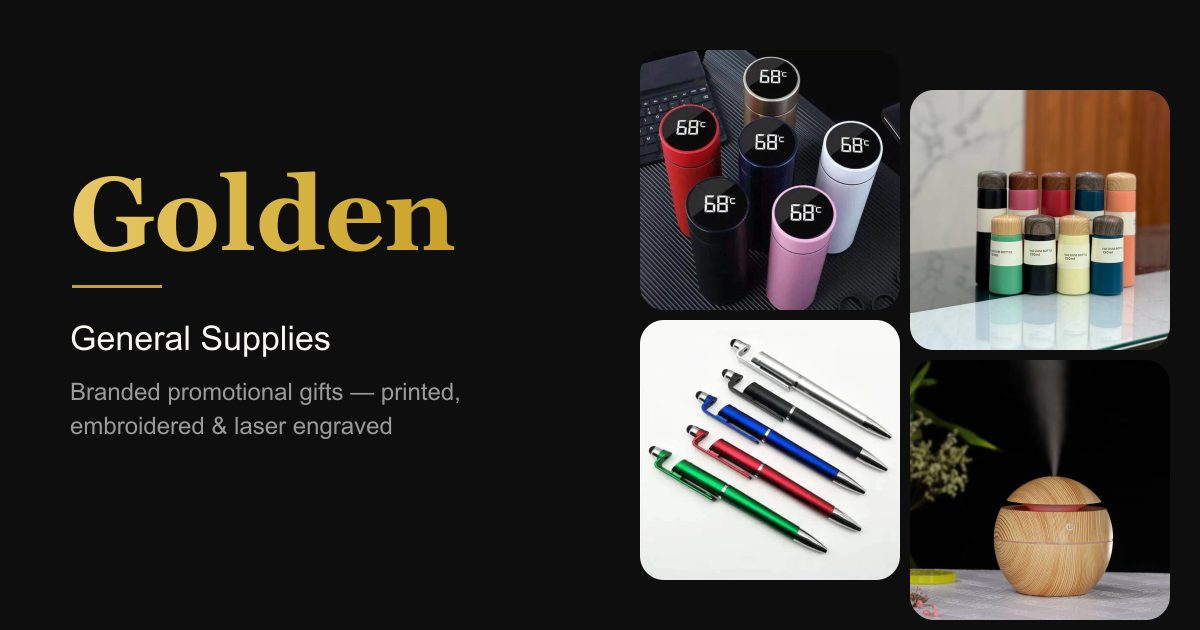
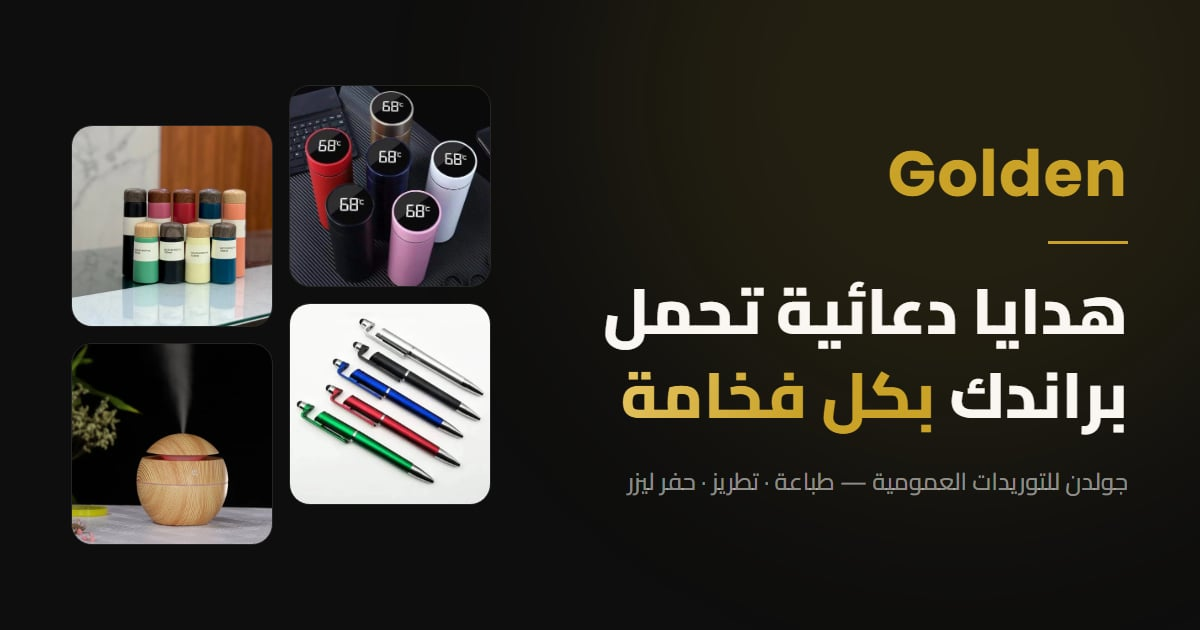
Add About section with counters, set production URL, refresh OG image
- New About section after the hero with animated stat counters
- Re-alternate section backgrounds to keep dark/light rhythm
- Point canonical/og/twitter URLs to golden-portfolio-six.vercel.app
- Regenerate og-image.jpg with logo and hero headline

diff --git a/src/components/Contact.jsx b/src/components/Contact.jsx
@@ -17,9 +17,9 @@ export default function Contact() {
   ]
 
   return (
-    <section id="contact" className="bg-charcoal py-24 md:py-32">
+    <section id="contact" className="bg-ivory py-24 md:py-32">
       <div className="mx-auto max-w-7xl px-5 sm:px-8">
-        <SectionHeading dark eyebrow={c.eyebrow} title={c.title} subtitle={c.subtitle} />
+        <SectionHeading eyebrow={c.eyebrow} title={c.title} subtitle={c.subtitle} />
 
         <div className="mt-16 grid gap-6 lg:grid-cols-5 lg:gap-8">
           <Reveal className="flex flex-col gap-4 lg:col-span-2">
@@ -30,7 +30,7 @@ export default function Contact() {
                 href={href}
                 {...(external && { target: '_blank', rel: 'noopener noreferrer' })}
                 className={`group flex items-center gap-5 rounded-2xl p-5 transition-colors duration-300 ${
-                  primary ? 'btn-gold' : 'border border-ivory/10 bg-ivory/[0.03] text-ivory hover:border-gold/50'
+                  primary ? 'btn-gold shadow-soft' : 'border border-charcoal/5 bg-white text-charcoal shadow-soft hover:border-gold/50'
                 }`}
               >
                 <span
@@ -41,7 +41,7 @@ export default function Contact() {
                   <Icon strokeWidth={1.5} className="size-5" />
                 </span>
                 <span className="min-w-0 flex-1">
-                  <span className={`block text-sm ${primary ? 'font-semibold' : 'text-ivory/60'}`}>{label}</span>
+                  <span className={`block text-sm ${primary ? 'font-semibold' : 'text-muted'}`}>{label}</span>
                   <span dir="ltr" className="mt-0.5 block truncate font-poppins text-base font-medium">
                     {value}
                   </span>
@@ -50,21 +50,21 @@ export default function Contact() {
               </motion.a>
             ))}
 
-            <motion.div variants={item} className="flex items-start gap-5 rounded-2xl border border-ivory/10 bg-ivory/[0.03] p-5 text-ivory">
+            <motion.div variants={item} className="flex items-start gap-5 rounded-2xl border border-charcoal/5 bg-white p-5 text-charcoal shadow-soft">
               <span className="flex size-12 shrink-0 items-center justify-center rounded-full border border-gold/30 text-gold">
                 <MapPin strokeWidth={1.5} className="size-5" />
               </span>
               <span>
-                <span className="block text-sm text-ivory/60">{c.address}</span>
+                <span className="block text-sm text-muted">{c.address}</span>
                 <span className="mt-0.5 block text-base leading-relaxed font-normal">{company.address[lang]}</span>
               </span>
             </motion.div>
 
-            <SocialLinks className="mt-2" />
+            <SocialLinks light className="mt-2" />
           </Reveal>
 
           <Reveal className="lg:col-span-3">
-            <motion.div variants={item} className="h-80 overflow-hidden rounded-2xl ring-1 ring-ivory/10 sm:h-96 lg:h-full lg:min-h-[28rem]">
+            <motion.div variants={item} className="h-80 overflow-hidden rounded-2xl shadow-soft ring-1 ring-charcoal/10 sm:h-96 lg:h-full lg:min-h-[28rem]">
               <iframe
                 title={c.mapTitle}
                 src={`https://www.google.com/maps?q=${encodeURIComponent(company.mapQuery)}&hl=${lang}&z=16&output=embed`}

diff --git a/src/components/Process.jsx b/src/components/Process.jsx
@@ -15,20 +15,20 @@ export default function Process() {
   const drawn = reduce ? 1 : progress
 
   return (
-    <section id="process" className="bg-ivory py-24 md:py-32">
+    <section id="process" className="bg-charcoal py-24 md:py-32">
       <div className="mx-auto max-w-7xl px-5 sm:px-8">
-        <SectionHeading eyebrow={t.process.eyebrow} title={t.process.title} />
+        <SectionHeading dark eyebrow={t.process.eyebrow} title={t.process.title} />
 
         <div ref={ref} className="relative mt-16 md:mt-20">
           {/* الخط الأفقي — كمبيوتر */}
-          <div className="absolute inset-x-[10%] top-8 hidden h-px bg-charcoal/10 md:block">
+          <div className="absolute inset-x-[10%] top-8 hidden h-px bg-ivory/10 md:block">
             <motion.div
               className="h-full w-full bg-gradient-to-r from-gold-light to-gold"
               style={{ scaleX: drawn, transformOrigin: isRTL ? 'right' : 'left' }}
             />
           </div>
           {/* الخط الرأسي — موبايل */}
-          <div className="absolute start-8 top-8 bottom-8 w-px bg-charcoal/10 md:hidden">
+          <div className="absolute start-8 top-8 bottom-8 w-px bg-ivory/10 md:hidden">
             <motion.div className="h-full w-full bg-gradient-to-b from-gold-light to-gold" style={{ scaleY: drawn, transformOrigin: 'top' }} />
           </div>
 
@@ -37,15 +37,15 @@ export default function Process() {
               const Icon = icons[i]
               return (
                 <motion.li key={i} variants={item} className="flex items-start gap-6 md:flex-col md:items-center md:gap-0 md:text-center">
-                  <span className="relative flex size-16 shrink-0 items-center justify-center rounded-full border border-gold/40 bg-ivory text-gold shadow-soft">
+                  <span className="relative flex size-16 shrink-0 items-center justify-center rounded-full border border-gold/40 bg-charcoal text-gold shadow-soft-dark">
                     <Icon strokeWidth={1.25} className="size-6" />
-                    <span className="absolute -top-1 -end-1 flex size-6 items-center justify-center rounded-full bg-charcoal font-poppins text-[0.7rem] font-semibold text-gold-light">
+                    <span className="absolute -top-1 -end-1 flex size-6 items-center justify-center rounded-full bg-gold font-poppins text-[0.7rem] font-semibold text-charcoal">
                       {i + 1}
                     </span>
                   </span>
                   <div className="pt-2 md:pt-7">
-                    <h3 className="text-xl font-bold text-charcoal">{s.title}</h3>
-                    <p className="mt-2 text-[0.95rem] leading-relaxed text-muted md:mx-auto md:max-w-[13rem]">{s.text}</p>
+                    <h3 className="text-xl font-bold text-ivory">{s.title}</h3>
+                    <p className="mt-2 text-[0.95rem] leading-relaxed text-ivory/60 md:mx-auto md:max-w-[13rem]">{s.text}</p>
                   </div>
                 </motion.li>
               )

diff --git a/src/components/About.jsx b/src/components/About.jsx
@@ -1,0 +1,78 @@
+import { useEffect, useRef } from 'react'
+import { animate, motion, useInView, useReducedMotion } from 'framer-motion'
+import { Clock } from 'lucide-react'
+import { useLang } from '../LanguageContext'
+import { Reveal, item } from './motion'
+
+const icons = { clock: Clock }
+
+// عدّاد بيبدأ من صفر لما يظهر على الشاشة
+function Counter({ value, prefix = '' }) {
+  const ref = useRef(null)
+  const inView = useInView(ref, { once: true, amount: 0.6 })
+  const reduce = useReducedMotion()
+
+  useEffect(() => {
+    if (!inView) return
+    if (reduce) {
+      ref.current.textContent = `${prefix}${value}`
+      return
+    }
+    const controls = animate(0, value, {
+      duration: value > 10 ? 1.2 : 0.6,
+      ease: 'easeOut',
+      onUpdate: (v) => {
+        if (ref.current) ref.current.textContent = `${prefix}${Math.round(v)}`
+      },
+    })
+    return () => controls.stop()
+  }, [inView, reduce, value, prefix])
+
+  return (
+    <span ref={ref} dir="ltr">
+      {prefix}0
+    </span>
+  )
+}
+
+export default function About() {
+  const { t } = useLang()
+  const a = t.about
+
+  return (
+    <section id="about" className="bg-ivory py-24 md:py-32">
+      <div className="mx-auto grid max-w-7xl items-center gap-14 px-5 sm:px-8 lg:grid-cols-2 lg:gap-20">
+        <Reveal className="text-center lg:text-start">
+          <motion.p variants={item} className="text-sm font-semibold tracking-[0.2em] text-gold uppercase">
+            {a.eyebrow}
+          </motion.p>
+          <motion.h2 variants={item} className="mt-4 text-3xl leading-tight font-extrabold text-charcoal sm:text-4xl md:text-5xl">
+            {a.title}
+          </motion.h2>
+          <motion.div variants={item} className="mx-auto mt-6 h-px w-16 bg-gold lg:mx-0" />
+          <motion.p variants={item} className="mt-6 text-base leading-loose text-muted sm:text-lg">
+            {a.text}
+          </motion.p>
+        </Reveal>
+
+        <Reveal className="grid grid-cols-3 gap-3 sm:gap-5">
+          {a.stats.map((s) => {
+            const Icon = s.icon && icons[s.icon]
+            return (
+              <motion.div
+                key={s.label}
+                variants={item}
+                className="flex flex-col items-center justify-center rounded-2xl border border-charcoal/5 bg-white px-2 py-8 text-center shadow-soft sm:px-4 sm:py-10"
+              >
+                <span className="flex h-12 items-center font-poppins text-4xl font-bold text-gold-gradient sm:h-16 sm:text-5xl">
+                  {Icon ? <Icon strokeWidth={1.25} className="size-10 text-gold sm:size-12" /> : <Counter value={s.value} prefix={s.prefix} />}
+                </span>
+                <span className="mt-3 text-sm leading-snug font-normal text-muted sm:text-base">{s.label}</span>
+              </motion.div>
+            )
+          })}
+        </Reveal>
+      </div>
+    </section>
+  )
+}

diff --git a/src/components/Products.jsx b/src/components/Products.jsx
@@ -18,9 +18,9 @@ export default function Products() {
   )
 
   return (
-    <section id="products" className="bg-charcoal py-24 md:py-32">
+    <section id="products" className="bg-ivory py-24 md:py-32">
       <div className="mx-auto max-w-7xl px-5 sm:px-8">
-        <SectionHeading dark eyebrow={t.products.eyebrow} title={t.products.title} subtitle={t.products.subtitle} />
+        <SectionHeading eyebrow={t.products.eyebrow} title={t.products.title} subtitle={t.products.subtitle} />
 
         <Reveal className="mt-12">
           <motion.div variants={item}>
@@ -34,7 +34,7 @@ export default function Products() {
                       onClick={() => setActive(c.id)}
                       aria-pressed={isActive}
                       className={`relative shrink-0 rounded-full px-5 py-2.5 text-sm transition-colors duration-300 ${
-                        isActive ? 'font-semibold text-charcoal' : 'text-ivory/70 hover:text-ivory'
+                        isActive ? 'font-semibold text-charcoal' : 'text-charcoal/65 hover:text-charcoal'
                       }`}
                     >
                       {isActive ? (
@@ -44,7 +44,7 @@ export default function Products() {
                           transition={{ type: 'spring', stiffness: 400, damping: 34 }}
                         />
                       ) : (
-                        <span className="absolute inset-0 rounded-full border border-ivory/10" />
+                        <span className="absolute inset-0 rounded-full border border-charcoal/10" />
                       )}
                       <span className="relative">{c[lang]}</span>
                     </button>
@@ -71,7 +71,7 @@ export default function Products() {
                   className="group block w-full text-start focus-visible:outline-none"
                   aria-label={`${t.products.view}: ${p[lang]}`}
                 >
-                  <div className="relative aspect-square overflow-hidden rounded-2xl bg-white shadow-soft-dark ring-1 ring-ivory/5 group-focus-visible:ring-2 group-focus-visible:ring-gold">
+                  <div className="relative aspect-square overflow-hidden rounded-2xl bg-white shadow-soft ring-1 ring-charcoal/5 group-focus-visible:ring-2 group-focus-visible:ring-gold">
                     <img
                       src={p.image}
                       alt={p[lang]}
@@ -90,7 +90,7 @@ export default function Products() {
                       </span>
                     </div>
                   </div>
-                  <h3 className="mt-4 text-sm leading-snug font-normal text-ivory/85 transition-colors group-hover:text-gold-light sm:text-base">
+                  <h3 className="mt-4 text-sm leading-snug font-normal text-charcoal/85 transition-colors group-hover:text-gold sm:text-base">
                     {p[lang]}
                   </h3>
                 </button>

diff --git a/src/data.js b/src/data.js
@@ -122,6 +122,7 @@ export const heroImages = [
 export const texts = {
   ar: {
     nav: {
+      about: 'من نحن',
       services: 'خدماتنا',
       products: 'منتجاتنا',
       process: 'إزاي بنشتغل',
@@ -139,6 +140,18 @@ export const texts = {
       primary: 'اطلب عرض سعر',
       secondary: 'شوف منتجاتنا',
       quoteMessage: 'أهلاً جولدن، عايز عرض سعر لهدايا دعائية لشركتنا.',
+    },
+    about: {
+      eyebrow: 'من نحن',
+      title: 'شريكك في الهدايا اللي بتفضل في الذاكرة',
+      text:
+        'جولدن للتوريدات العمومية متخصصة في الهدايا والمنتجات الدعائية للشركات. بنختار كل منتج بعناية، ونطبع أو نطرّز أو نحفر عليه لوجو براندك بجودة تليق باسمك — من القلم البسيط لحد الهدايا الفاخرة — وبنلتزم بالميعاد في كل طلب.',
+      // value: رقم بيتعد لحد ما يوصله. من غير value بيظهر أيقونة بدل الرقم
+      stats: [
+        { value: 40, prefix: '+', label: 'منتج' },
+        { value: 4, label: 'طرق تنفيذ' },
+        { icon: 'clock', label: 'تسليم في الميعاد' },
+      ],
     },
     services: {
       eyebrow: 'خدماتنا',
@@ -188,6 +201,7 @@ export const texts = {
 
   en: {
     nav: {
+      about: 'About',
       services: 'Services',
       products: 'Products',
       process: 'How We Work',
@@ -205,6 +219,17 @@ export const texts = {
       primary: 'Request a Quote',
       secondary: 'View Products',
       quoteMessage: 'Hello Golden, I would like a quote for branded promotional gifts.',
+    },
+    about: {
+      eyebrow: 'About Us',
+      title: 'Your Partner for Gifts People Remember',
+      text:
+        'Golden General Supplies specializes in corporate gifts and promotional products. We carefully select every item and print, embroider or laser-engrave your logo with quality worthy of your name — from everyday pens to premium gifts — and we deliver on time, every time.',
+      stats: [
+        { value: 40, prefix: '+', label: 'Products' },
+        { value: 4, label: 'Branding Methods' },
+        { icon: 'clock', label: 'On-Time Delivery' },
+      ],
     },
     services: {
       eyebrow: 'Services',

diff --git a/src/components/Services.jsx b/src/components/Services.jsx
@@ -8,9 +8,9 @@ const icons = { printer: Printer, scissors: Scissors, zap: Zap, gift: Gift }
 export default function Services() {
   const { t } = useLang()
   return (
-    <section id="services" className="bg-ivory py-24 md:py-32">
+    <section id="services" className="bg-charcoal py-24 md:py-32">
       <div className="mx-auto max-w-7xl px-5 sm:px-8">
-        <SectionHeading eyebrow={t.services.eyebrow} title={t.services.title} subtitle={t.services.subtitle} />
+        <SectionHeading dark eyebrow={t.services.eyebrow} title={t.services.title} subtitle={t.services.subtitle} />
         <Reveal className="mt-16 grid gap-5 sm:grid-cols-2 lg:grid-cols-4 lg:gap-6">
           {t.services.items.map((s) => {
             const Icon = icons[s.icon]
@@ -18,13 +18,13 @@ export default function Services() {
               <motion.div
                 key={s.icon}
                 variants={item}
-                className="group rounded-2xl border border-charcoal/5 bg-white p-8 shadow-soft transition-shadow duration-500 hover:shadow-[0_20px_50px_-24px_rgb(201_162_39/0.45)]"
+                className="group rounded-2xl border border-ivory/10 bg-ivory/[0.03] p-8 shadow-soft-dark transition-colors duration-500 hover:border-gold/40"
               >
                 <span className="flex size-14 items-center justify-center rounded-full border border-gold/30 text-gold transition-colors duration-500 group-hover:bg-gold group-hover:text-charcoal">
                   <Icon strokeWidth={1.25} className="size-6" />
                 </span>
-                <h3 className="mt-7 text-xl font-bold text-charcoal">{s.title}</h3>
-                <p className="mt-3 text-[0.95rem] leading-relaxed text-muted">{s.text}</p>
+                <h3 className="mt-7 text-xl font-bold text-ivory">{s.title}</h3>
+                <p className="mt-3 text-[0.95rem] leading-relaxed text-ivory/60">{s.text}</p>
               </motion.div>
             )
           })}

diff --git a/index.html b/index.html
@@ -11,7 +11,7 @@
       name="description"
       content="جولدن للتوريدات العمومية — هدايا ومنتجات دعائية للشركات بلوجو براندك: طباعة، تطريز، وحفر ليزر. أقلام، زمزميات، أجهزة، شنط وأكثر. Golden General Supplies — branded corporate gifts in Egypt."
     />
-    <link rel="canonical" href="%VITE_SITE_URL%/" />
+    <link rel="canonical" href="https://golden-portfolio-six.vercel.app/" />
 
     <!-- Open Graph (WhatsApp / Facebook) -->
     <meta property="og:type" content="website" />
@@ -23,12 +23,12 @@
       property="og:description"
       content="هدايا ومنتجات دعائية للشركات — مطبوعة أو مطرّزة أو محفورة بلوجو براندك. اطلب عرض سعر على واتساب."
     />
-    <meta property="og:url" content="%VITE_SITE_URL%/" />
-    <meta property="og:image" content="%VITE_SITE_URL%/og-image.jpg" />
+    <meta property="og:url" content="https://golden-portfolio-six.vercel.app/" />
+    <meta property="og:image" content="https://golden-portfolio-six.vercel.app/og-image.jpg" />
     <meta property="og:image:width" content="1200" />
     <meta property="og:image:height" content="630" />
     <meta name="twitter:card" content="summary_large_image" />
-    <meta name="twitter:image" content="%VITE_SITE_URL%/og-image.jpg" />
+    <meta name="twitter:image" content="https://golden-portfolio-six.vercel.app/og-image.jpg" />
 
     <link rel="preconnect" href="https://fonts.googleapis.com" />
     <link rel="preconnect" href="https://fonts.gstatic.com" crossorigin />

diff --git a/src/components/SocialLinks.jsx b/src/components/SocialLinks.jsx
@@ -9,7 +9,7 @@ const labels = {
 }
 
 // بيظهر بس لو فيه لينكات متسجلة في social جوه data.js
-export default function SocialLinks({ className = '' }) {
+export default function SocialLinks({ light = false, className = '' }) {
   const links = Object.entries(social).filter(([, url]) => url)
   if (!links.length) return null
   return (
@@ -20,7 +20,9 @@ export default function SocialLinks({ className = '' }) {
           href={url}
           target="_blank"
           rel="noopener noreferrer"
-          className="rounded-full border border-ivory/15 px-4 py-2 font-poppins text-sm text-ivory/75 transition-colors hover:border-gold hover:text-gold-light"
+          className={`rounded-full border px-4 py-2 font-poppins text-sm transition-colors hover:border-gold ${
+            light ? 'border-charcoal/15 text-charcoal/75 hover:text-gold' : 'border-ivory/15 text-ivory/75 hover:text-gold-light'
+          }`}
         >
           {labels[key] ?? key}
         </a>

diff --git a/src/App.jsx b/src/App.jsx
@@ -4,6 +4,7 @@ import { LanguageProvider } from './LanguageContext'
 import Loader from './components/Loader'
 import Header from './components/Header'
 import Hero from './components/Hero'
+import About from './components/About'
 import Services from './components/Services'
 import Products from './components/Products'
 import Process from './components/Process'
@@ -27,6 +28,7 @@ export default function App() {
         <Header />
         <main>
           <Hero ready={!loading} />
+          <About />
           <Services />
           <Products />
           <Process />

diff --git a/src/components/Header.jsx b/src/components/Header.jsx
@@ -5,7 +5,7 @@ import { company, whatsappLink } from '../data'
 import { useLang } from '../LanguageContext'
 import WhatsAppIcon from './WhatsAppIcon'
 
-const sections = ['services', 'products', 'process', 'contact']
+const sections = ['about', 'services', 'products', 'process', 'contact']
 
 export default function Header() {
   const { t, toggle, lang } = useLang()

diff --git a/README.md b/README.md
@@ -5,7 +5,7 @@
 - **تعديل المحتوى:** كل البيانات والنصوص والمنتجات والفئات في `src/data.js`.
 - **إضافة منتج:** حط الصورة (webp) في `public/products/` وضيف سطر في `products` بنفس الاسم.
 - **الألوان والخطوط:** في `@theme` جوه `src/index.css` (Tailwind v4).
-- **رابط الموقع (لصورة المشاركة على واتساب/جوجل):** `VITE_SITE_URL` في `.env`.
+- **رابط الموقع (canonical وصورة المشاركة على واتساب/جوجل):** في `index.html`.
 
 ```bash
 npm install
